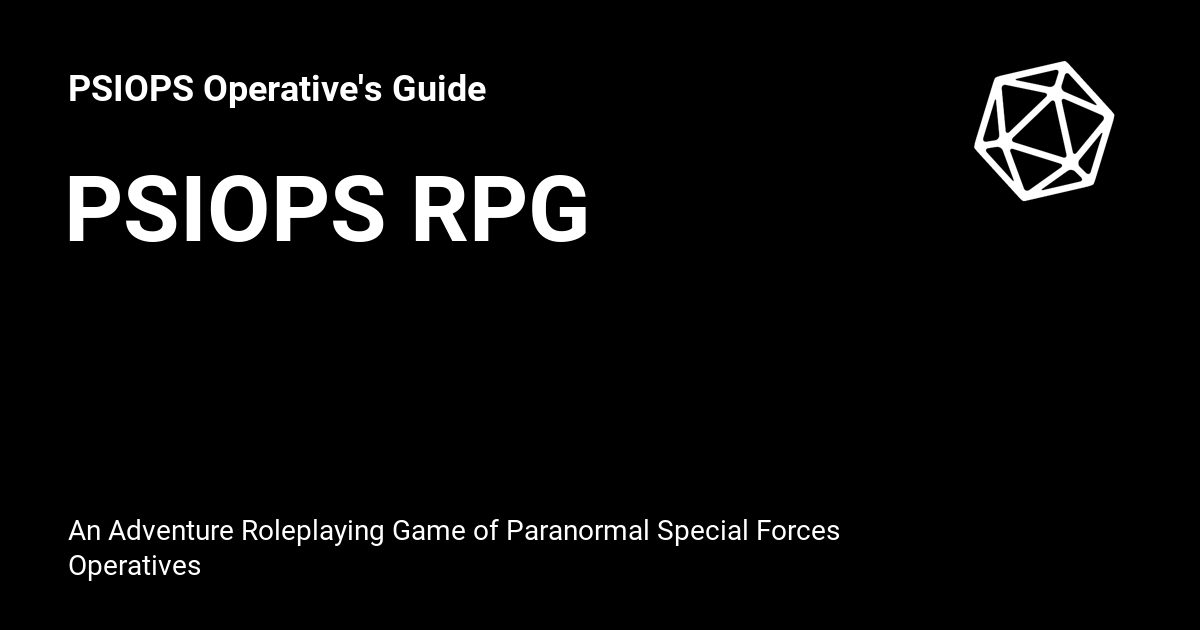
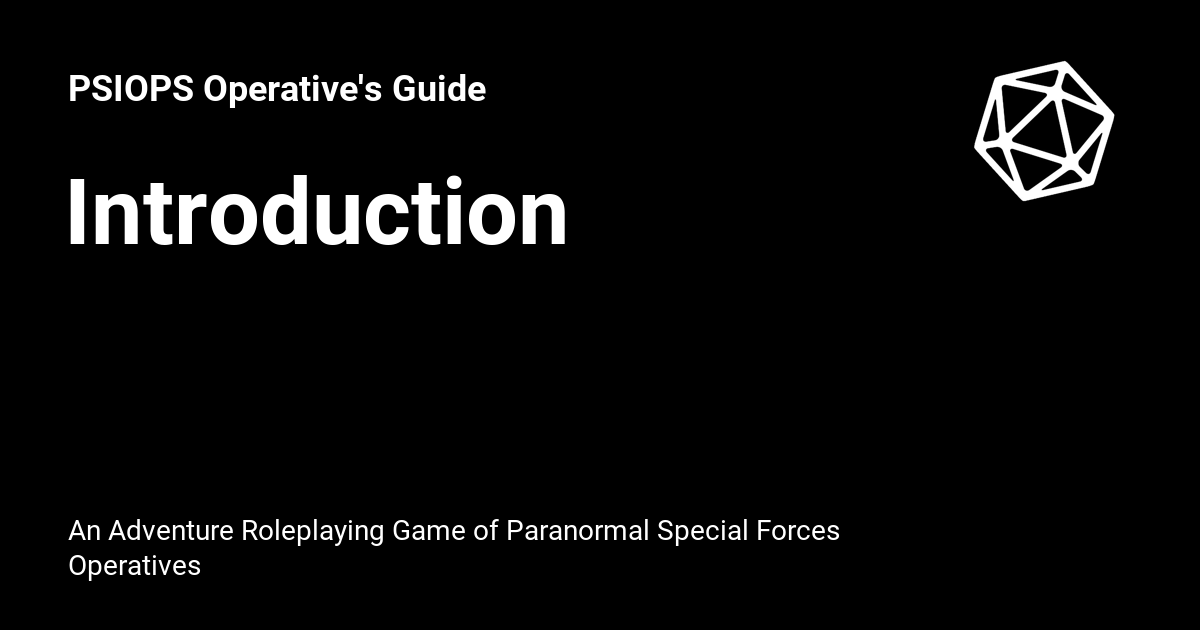
push

Changed region(s): [[0.0617, 0.2714, 0.4933, 0.3921]]

diff --git a/psiops/index.html b/psiops/index.html
@@ -61,7 +61,7 @@
       
         <meta  property="og:type"  content="website" >
       
-        <meta  property="og:title"  content="PSIOPS RPG" >
+        <meta  property="og:title"  content="Introduction" >
       
         <meta  property="og:description"  content="An Adventure Roleplaying Game of Paranormal Special Forces Operatives" >
       
@@ -77,7 +77,7 @@
       
         <meta  name="twitter:card"  content="summary_large_image" >
       
-        <meta  name="twitter:title"  content="PSIOPS RPG" >
+        <meta  name="twitter:title"  content="Introduction" >
       
         <meta  name="twitter:description"  content="An Adventure Roleplaying Game of Paranormal Special Forces Operatives" >
       
@@ -139,7 +139,7 @@
         <div class="md-header__topic" data-md-component="header-topic">
           <span class="md-ellipsis">
             
-              PSIOPS RPG
+              Introduction
             
           </span>
         </div>
@@ -294,7 +294,7 @@
           
   
   <span class="md-ellipsis">
-    PSIOPS RPG
+    Introduction
   </span>
   
 
@@ -305,7 +305,7 @@
         
   
   <span class="md-ellipsis">
-    PSIOPS RPG
+    Introduction
   </span>
   
 

diff --git a/psiops/playing/index.html b/psiops/playing/index.html
@@ -287,7 +287,7 @@
         
   
   <span class="md-ellipsis">
-    PSIOPS RPG
+    Introduction
   </span>
   
 
@@ -850,7 +850,7 @@
       <nav class="md-footer__inner md-grid" aria-label="Footer" >
         
           
-          <a href=".." class="md-footer__link md-footer__link--prev" aria-label="Previous: PSIOPS RPG">
+          <a href=".." class="md-footer__link md-footer__link--prev" aria-label="Previous: Introduction">
             <div class="md-footer__button md-icon">
               
               <svg xmlns="http://www.w3.org/2000/svg" viewBox="0 0 24 24"><path d="M20 11v2H8l5.5 5.5-1.42 1.42L4.16 12l7.92-7.92L13.5 5.5 8 11h12Z"/></svg>
@@ -860,7 +860,7 @@
                 Previous
               </span>
               <div class="md-ellipsis">
-                PSIOPS RPG
+                Introduction
               </div>
             </div>
           </a>

diff --git a/psiops/404.html b/psiops/404.html
@@ -250,7 +250,7 @@
         
   
   <span class="md-ellipsis">
-    PSIOPS RPG
+    Introduction
   </span>
   
 

diff --git a/psiops/attribution/index.html b/psiops/attribution/index.html
@@ -285,7 +285,7 @@
         
   
   <span class="md-ellipsis">
-    PSIOPS RPG
+    Introduction
   </span>
   
 

diff --git a/psiops/character/index.html b/psiops/character/index.html
@@ -287,7 +287,7 @@
         
   
   <span class="md-ellipsis">
-    PSIOPS RPG
+    Introduction
   </span>
   
 

diff --git a/psiops/combat/index.html b/psiops/combat/index.html
@@ -287,7 +287,7 @@
         
   
   <span class="md-ellipsis">
-    PSIOPS RPG
+    Introduction
   </span>
   
 

diff --git a/psiops/stress/index.html b/psiops/stress/index.html
@@ -287,7 +287,7 @@
         
   
   <span class="md-ellipsis">
-    PSIOPS RPG
+    Introduction
   </span>
   
 
